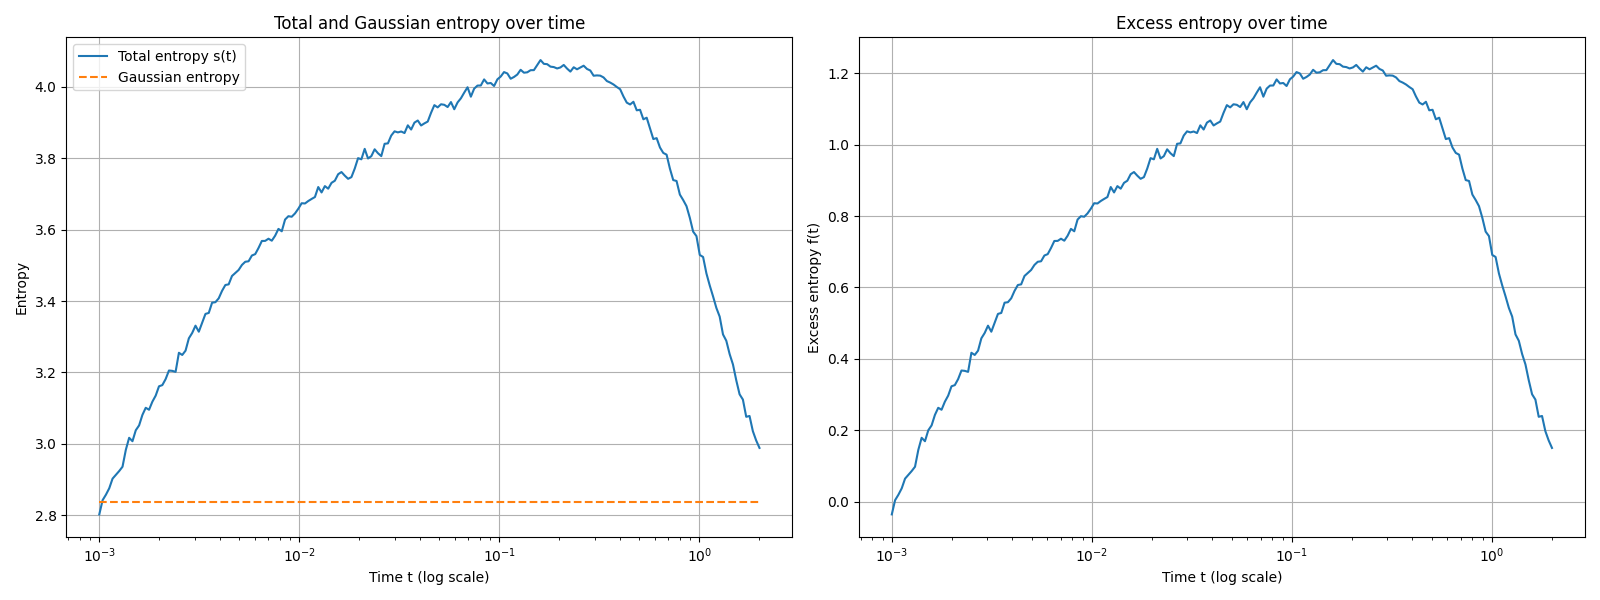
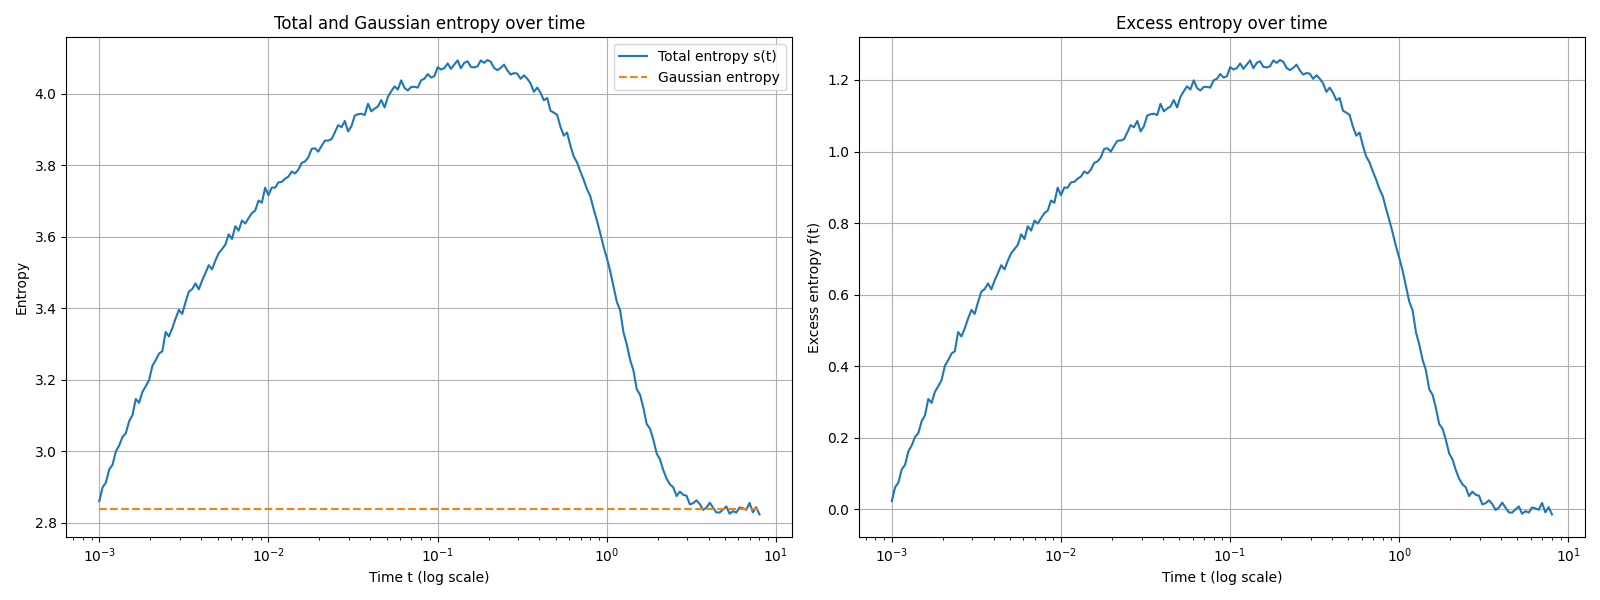
better entropy viz now

diff --git a/models/linear/linear_mnist.py b/models/linear/linear_mnist.py
@@ -120,7 +120,7 @@ ax1.set_ylim(X_pca[:, 1].min() - 1, X_pca[:, 1].max() + 1)
 
 # Initialize excess entropy plot with log scale x-axis
 line, = ax2.semilogx([], [])
-ax2.set_xlim(1e-3, 2)
+ax2.set_xlim(1e-3, 8)
 ax2.set_ylim(min(excess_entropies), max(excess_entropies))
 ax2.set_xlabel('Time t (log scale)')
 ax2.set_ylabel('Excess entropy f(t)')
